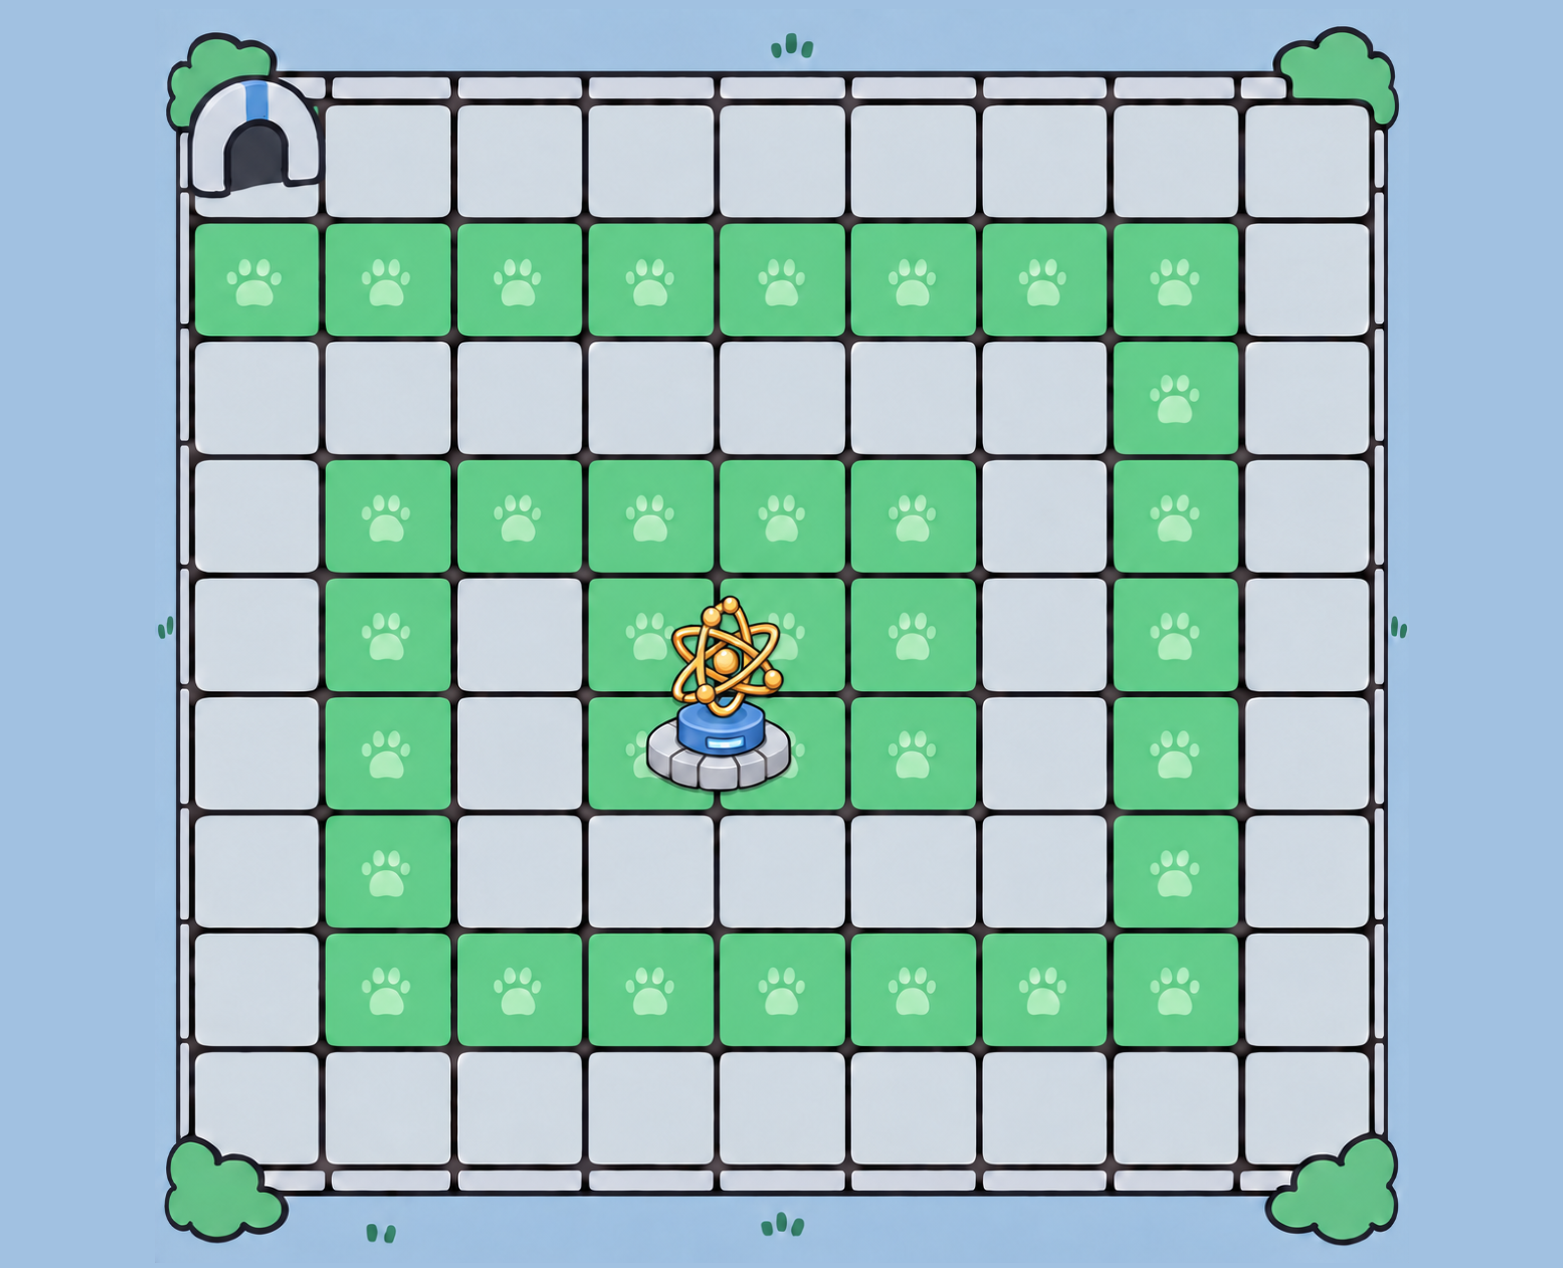
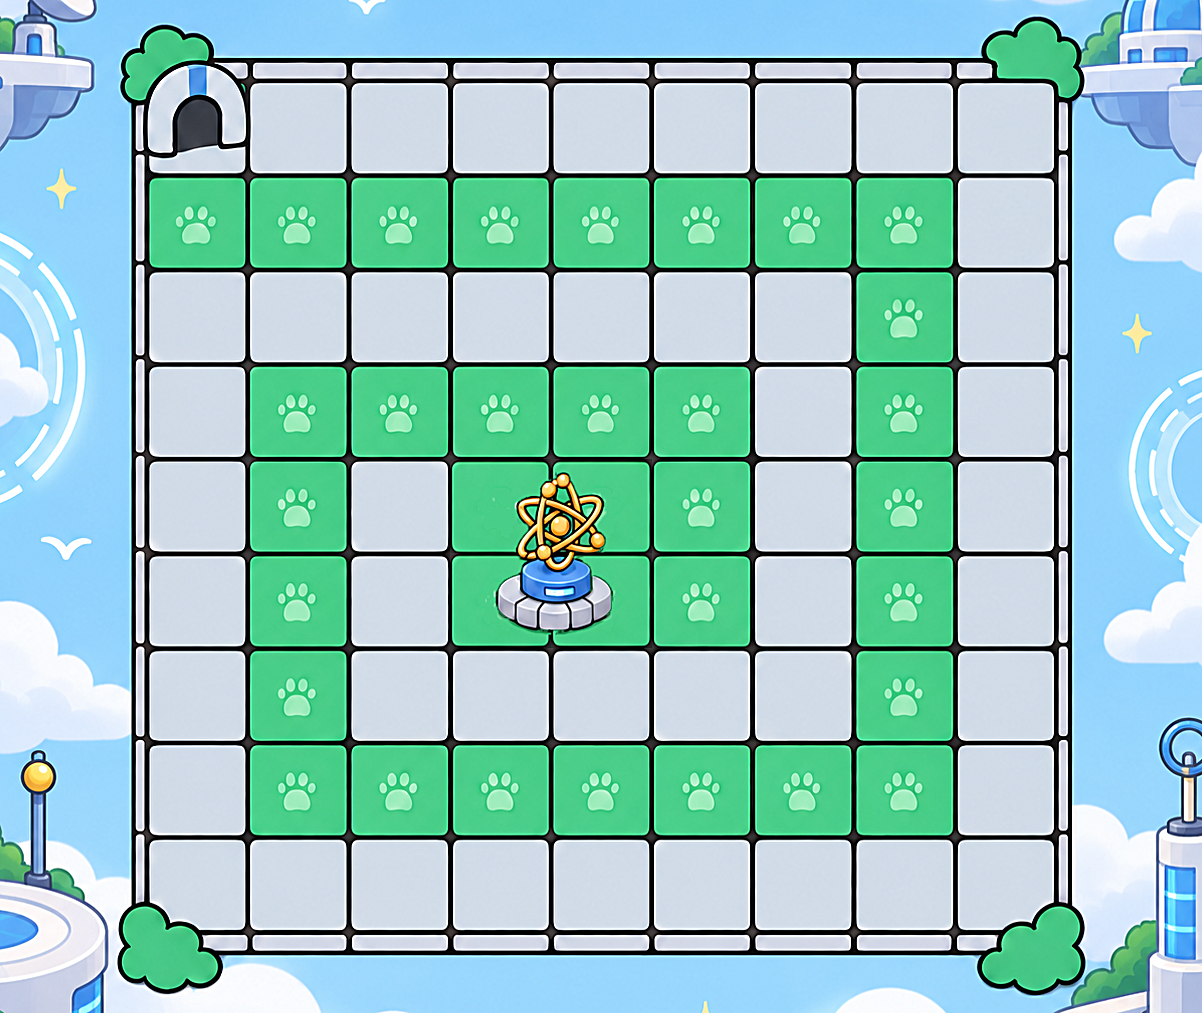
맵 이미지 변경 / 냥타워 0개시작 시 알림추가

diff --git a/public/game.js b/public/game.js
@@ -4494,6 +4494,23 @@ function showErrToast(msg) {
   clearTimeout(showErrToast._t);
   showErrToast._t = setTimeout(() => { el.remove(); }, 12000);
 }
+/** 판 위 안내 띠(.notice) — 판의 셋째 줄 한가운데에 띄운다. 판은 배율이 걸려 있어 화면 좌표는
+ *  getBoundingClientRect 로 잰다. 다시 부르면 글을 갈아 끼우고 2초 뒤 사라진다. */
+function showNotice(msg) {
+  let el = document.getElementById("noticeToast");
+  if (!el) {
+    el = document.createElement("div");
+    el.id = "noticeToast";
+    el.className = "notice";
+    document.body.appendChild(el);
+  }
+  const b = $("#board"), r = b ? b.getBoundingClientRect() : null;
+  if (r && r.height) { el.style.left = r.left + r.width / 2 + "px"; el.style.top = r.top + r.height / 9 * 2.5 + "px"; }
+  else { el.style.left = "50%"; el.style.top = "30%"; }
+  el.textContent = msg;
+  clearTimeout(showNotice._t);
+  showNotice._t = setTimeout(() => { el.remove(); }, 2000);
+}
 
 function draw(now) {
   const cv = fxCanvas();
@@ -8314,15 +8331,15 @@ function drawOppBoard(cv, snap, now) {
  * 원화(img/src/map*.png)를 넣고 돌리면 map/*.png 와 아래 pad 값을 같이 뱉는다.
  * 세 전장 모두 액자 1000×900 (가운데 패널을 꽉 채우는 10:9) 으로 맞춰 두어 전장이 바뀌어도 판 크기가 같다.
  *   캠퍼스   x 148.9 + 102.55k · y 78.2 + 90.74k   (1221×973, 냥집 원화 map1_idea_campus.png)
- *   연구단지 x 193.6 + 131.32k · y 101.9 + 118.32k (1563×1268, 예전 정사각 원화를 --no-monument --no-sharpen 으로
- *   우주기지 x 193.4 + 131.26k · y 101.4 + 118.37k (1562×1268,  다시 돌린 것 — 모자란 양옆 여백은 배경색으로 채웠다)
+ *   연구단지 x 171.5 + 101.00k · y 198.7 + 94.55k  (1202×1013, 원화 map2_research_complex.png — 배경이 무늬라 잘린 장식은 안 지웠다)
+ *   우주기지 x 129.4 + 110.59k · y 135.5 + 100.99k (1316×1082, 원화 map3_space_base.png — --no-erase, 모자란 양옆은 배경색으로 채웠다)
  */
 /* 세 전장이 판을 셋으로 나눈다. 한 판이 12라운드에서 **10라운드**로 줄면서 경계도 같이 당겼다 —
  * 3/7 로 끊으면 대전 라운드(4·7·10) 직전마다 전장이 바뀌어, 「전장이 바뀌면 곧 대전」이 된다. */
 const STAGE_THEMES = [
   { to: 3,        id: "idea_campus",      name: "아이디어 캠퍼스", img: "map/Idea_campus.png",      pad: [74.23, 124.24, 74.16, 123.97] },
-  { to: 7,        id: "research_complex", name: "연구 개발 단지",  img: "map/research_complex.png", pad: [74.35, 123.81, 73.88, 123.98] },
-  { to: Infinity, id: "space_base",       name: "우주 기술 기지",  img: "map/space_base.png",       pad: [74.13, 123.84, 73.70, 123.72] },
+  { to: 7,        id: "research_complex", name: "연구 개발 단지",  img: "map/research_complex.png", pad: [73.39, 123.80, 74.19, 123.80] },
+  { to: Infinity, id: "space_base",       name: "우주 기술 기지",  img: "map/space_base.png",       pad: [74.20, 123.73, 74.08, 123.85] },
 ];
 const themeForStage = (n) => STAGE_THEMES.find((t) => n <= t.to) || STAGE_THEMES[STAGE_THEMES.length - 1];
 /** 지금 보여줄 스테이지 번호 — 준비 단계에서는 곧 치를 다음 웨이브의 전장을 미리 보여준다 */
@@ -8411,6 +8428,11 @@ function beginBattle() {
  */
 $("#btnGo").addEventListener("click", () => {
   if (!canPrep()) return;
+  // 첫 라운드는 냥타워를 하나도 안 놓고 열면 그냥 침입자가 지나가는 판이 된다 — 놓고 오라고 안내하고 막는다
+  if (game.wave === 0 && !B.cats(game).length) {
+    showNotice("냥타워를 판에 배치하고 라운드를 시작하세요.");
+    return;
+  }
   // 서버가 없거나, 맞출 필요가 없는 웨이브(첫 스테이지 이후)라면 곧바로 시작한다
   if (!online() || !needsSync(game.wave + 1)) { doStartWave(); return; }
   iReady = !iReady;

diff --git a/tools/fit-map-art.js b/tools/fit-map-art.js
@@ -20,7 +20,7 @@ const CELL = 84;
 
 const args = process.argv.slice(2), flags = new Set(args.filter((a) => a.startsWith("--")));
 const [inFile, outFile] = args.filter((a) => !a.startsWith("--"));
-if (!inFile || !outFile) { console.error("사용: node tools/fit-map-art.js <원화.png> <출력.png> [--no-monument] [--no-sharpen]"); process.exit(1); }
+if (!inFile || !outFile) { console.error("사용: node tools/fit-map-art.js <원화.png> <출력.png> [--no-monument] [--no-sharpen] [--no-erase]"); process.exit(1); }
 // 이미 한 번 손질한 map/*.png 를 액자 규격만 바꿔 다시 돌릴 때는 조형물 옮기기·선명화를 건너뛴다 —
 // 조형물은 이미 2×2 에 맞아 있고, 선명화를 두 번 먹이면 외곽선이 거칠어진다.
 let img = decode(inFile);
@@ -259,6 +259,9 @@ if (x0 < 0 || y0 < 0 || x1 > srcW || y1 > srcH) {
 
 /* ── 4. 위·아래에 걸려 잘린 장식 지우기 ── */
 (function eraseCut(im) {
+  // 우주 배경처럼 어두운 바탕에 별·소행성이 흩어져 있으면 단색 검사는 통과하는데, 액자가 장식을 타고
+  // 가장자리와 이어져 판까지 통째로 지워진다 — 그런 원화는 --no-erase 로 건너뛴다.
+  if (flags.has("--no-erase")) return;
   const { w, h, data } = im;
   const { bg, flat } = bgColor(im);
   if (!flat) { console.log("배경이 단색이 아니라 잘린 장식은 그대로 둔다"); return; }

diff --git a/public/style.css b/public/style.css
@@ -1152,6 +1152,15 @@ body.dueling #tip{display:none!important}
 #sheet .upstack strong{display:block;font-size:15px;color:#203e2b;margin-top:3px}
 #sheet .upstack.temporary>span{display:block;font-size:13px;color:#575341;margin-top:6px}
 
+/* 판 위 안내 띠 — 「냥타워를 놓고 시작하세요」 같은 짧은 안내. 축포(.tierpop)와 같은 색조에 글꼴은 표시용 */
+.notice{position:fixed;transform:translate(-50%,-50%);z-index:400;pointer-events:none;
+  max-width:min(92vw,560px);padding:10px 22px;text-align:center;white-space:pre-wrap;
+  background:rgba(12,21,36,.94);border:2px solid var(--gold);border-radius:4px;
+  box-shadow:0 0 0 4px rgba(12,21,36,.6),0 0 28px color-mix(in srgb,var(--gold) 50%,transparent);
+  font-family:var(--disp);font-size:18px;letter-spacing:.06em;color:var(--gold);
+  text-shadow:0 0 14px color-mix(in srgb,var(--gold) 60%,transparent);
+  animation:tierIn .32s cubic-bezier(.2,1.5,.4,1) forwards}
+
 /* 계열 단계 개방 축포 — 규칙이 바뀌는 순간이라 한 번은 크게 터진다 */
 .tierpop{--lc:#cda43a;
   position:fixed;left:50%;top:38%;transform:translate(-50%,-50%) scale(.6);
